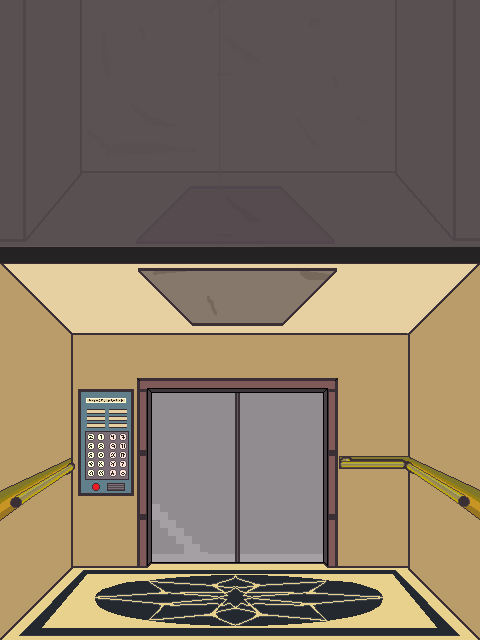
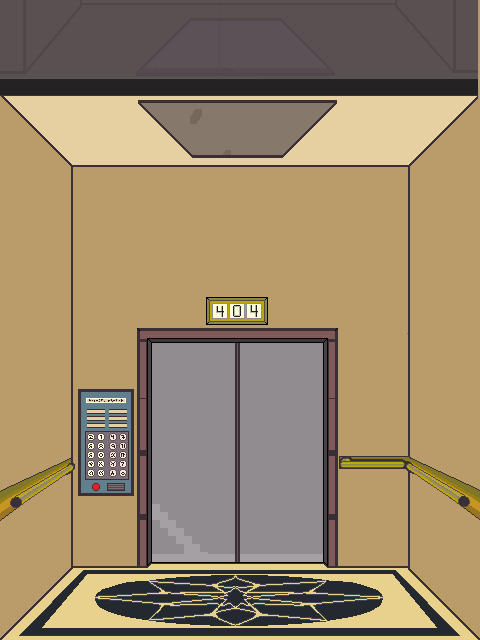
feat(04.3-l2-elevator): updated elevator sprite, colliders, 404 display platform
Elevator room height adapted (ceiling row 268->96). All L2 shaft alignment constants updated. New invisible collider over 404 display. Hatch gap narrowed to x=164-311.

diff --git a/src/platforms.js b/src/platforms.js
@@ -272,15 +272,21 @@ function generateLevelPlatforms(level) {
   if (level === 2) {
     const goalY = GameState.levelGoalY;
 
-    // C1 — Elevator ceiling (world y=268): solid left + right flanking the hatch.
-    // Hatch gap x=138–337 = passable (cat jumps up through); solid parts land cat back on ceiling.
-    platforms.push({ x: 0,   y: 268, w: 138, h: 8, type: 'normal', state: 'intact', crumbleTimer: 0, row: 0, winVariants: undefined, invisible: true });
-    platforms.push({ x: 337, y: 268, w: 143, h: 8, type: 'normal', state: 'intact', crumbleTimer: 0, row: 0, winVariants: undefined, invisible: true });
+    // C1 — Elevator ceiling (world y=96): solid left + right flanking the hatch.
+    // Hatch gap x=164–311 = passable (cat jumps up through); solid parts land cat back on ceiling.
+    // PIL-derived from elevator.png row 96 (shaft→room transition); hatch bounds from row 126 scan.
+    platforms.push({ x: 0,   y: 96, w: 164, h: 8, type: 'normal', state: 'intact', crumbleTimer: 0, row: 0, winVariants: undefined, invisible: true });
+    platforms.push({ x: 311, y: 96, w: 169, h: 8, type: 'normal', state: 'intact', crumbleTimer: 0, row: 0, winVariants: undefined, invisible: true });
 
-    // C2 — Shaft bottom floor (world y=196): walkable left + right flanking the death-hatch.
+    // C2 — Shaft bottom floor (world y=24): walkable left + right flanking the death-hatch.
+    // 72px above C1 ceiling — same gap as before; shaft_bg_bottom.png content unchanged.
     // Death-hatch gap x=172–300 = no platform → cat falls back into elevator → life lost.
-    platforms.push({ x: 0,   y: 196, w: 172, h: 8, type: 'normal', state: 'intact', crumbleTimer: 0, row: 0, winVariants: undefined, invisible: true });
-    platforms.push({ x: 300, y: 196, w: 180, h: 8, type: 'normal', state: 'intact', crumbleTimer: 0, row: 0, winVariants: undefined, invisible: true });
+    platforms.push({ x: 0,   y: 24, w: 172, h: 8, type: 'normal', state: 'intact', crumbleTimer: 0, row: 0, winVariants: undefined, invisible: true });
+    platforms.push({ x: 300, y: 24, w: 180, h: 8, type: 'normal', state: 'intact', crumbleTimer: 0, row: 0, winVariants: undefined, invisible: true });
+
+    // C404 — 404 floor-display top surface (world y=301): invisible platform over the clock display.
+    // PIL bounds: y=301–320, x=210–262. Collider sits at the display's top edge.
+    platforms.push({ x: 210, y: 301, w: 52,  h: 8, type: 'normal', state: 'intact', crumbleTimer: 0, row: 0, winVariants: undefined, invisible: true });
 
     // C3 — Shaft exit ceiling (world y=goalY+80): flanking exit hatch (ShaftTop row 255).
     // Cat can only exit through center gap x=138–337.

diff --git a/src/background.js b/src/background.js
@@ -400,15 +400,15 @@ function _drawL3Back(ctx, camShift) {
   // Elevator car at world origin
   ctx.drawImage(_bgL3Elevator, 0, cs);
 
-  // Shaft bottom — shifted up by 268px so its bottom aligns with the elevator
-  // ceiling (Elevator.png row 268 = world y 268), eliminating the dark gap.
-  // cs + 268 - BG_H = cs - 372
-  ctx.drawImage(_bgL3ShaftBot, 0, cs + 268 - BG_H);
+  // Shaft bottom — shifted up by 96px so its bottom aligns with the elevator
+  // ceiling (Elevator.png row 96 = world y 96), eliminating the dark gap.
+  // cs + 96 - BG_H = cs - 544
+  ctx.drawImage(_bgL3ShaftBot, 0, cs + 96 - BG_H);
 
-  // Mid tiles — start at wy=−1012 (= −(BG_H*2 − 268)) so the first tile's
-  // bottom (world y −372) connects to ShaftBot's top — no gap after B1 shift.
+  // Mid tiles — start at wy=−1184 (= −(BG_H*2 − 96)) so the first tile's
+  // bottom (world y −544) connects to ShaftBot's top — no gap after B1 shift.
   let tileIdx = 0;
-  for (let wy = -(BG_H * 2 - 268); wy > goalY - BG_H; wy -= BG_H) {
+  for (let wy = -(BG_H * 2 - 96); wy > goalY - BG_H; wy -= BG_H) {
     const sy = wy + cs;
     if (sy > BG_H)         continue; // below viewport
     if (sy + BG_H < 0)     break;    // above viewport — all further tiles too
